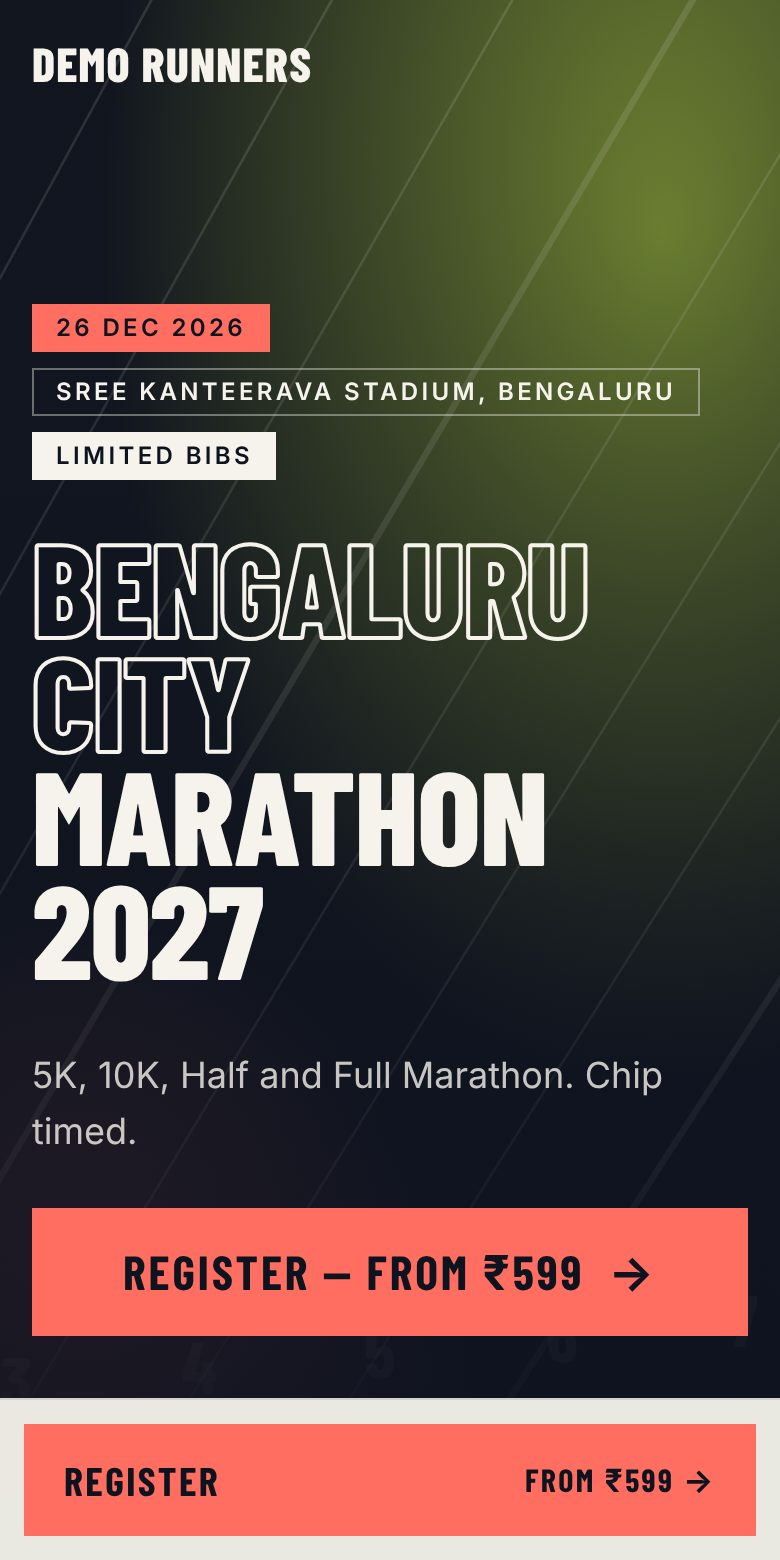
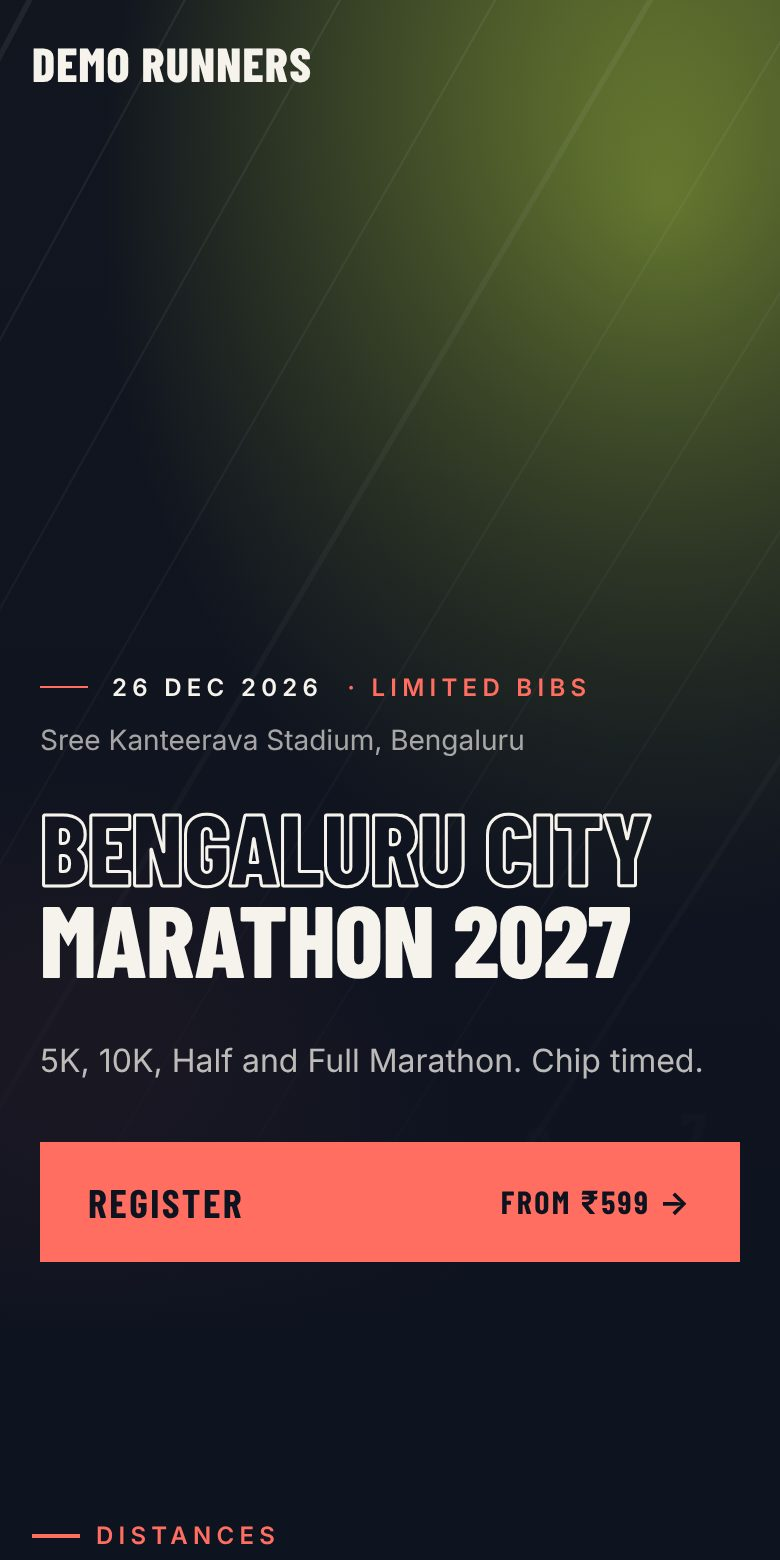
Premium mobile polish for event pages, homepage mock and dashboard preview
On phones, the Gun Lap race page showed two Register buttons at once,
three stacked boxes and an oversized headline, and the dashboard's
mobile preview was squeezed and clipped.

- Sticky register bar (all templates): a slim solid ink bar with price
  and one Register button. It slides in only after the hero's Register
  button ([data-hero-cta]) scrolls away and hides over the form; it
  stays visible without JS. Safe-area padding.
- Gun Lap on phones:
  - one quiet facts line (date · limited bibs, venue below) instead of
    stacked chips;
  - a smaller headline with tighter leading and a thinner outline;
  - a full-width hero CTA;
  - an 86svh hero;
  - tidy numeral | name | price rows for distances.
- Photo fallback line work is fainter on phones; the scrolled header is
  solid.
- Dashboard mobile preview renders a real 390x844 page, scaled to fit.
- Homepage phone mock is smaller on phones and re-captured.

Docs: docs/design/mobile-premium.md (before/after).

Claude-Session: https://claude.ai/code/session_01EcwLA5wqLFmSyCqgLYUVmw

diff --git a/resources/views/landings/templates/gun-lap.blade.php b/resources/views/landings/templates/gun-lap.blade.php
@@ -9,7 +9,7 @@
 
 @push('head')
     <style>
-        .gl-outline { -webkit-text-stroke: 2px rgb(var(--ri-paper)); color: transparent; }
+        .gl-outline { -webkit-text-stroke: 1.5px rgb(var(--ri-paper)); color: transparent; }
         @media (min-width: 640px) { .gl-outline { -webkit-text-stroke-width: 3px; } }
     </style>
 @endpush
@@ -19,26 +19,39 @@
     @php($split = max(1, (int) ceil(count($words) / 2)))
     @include('landings.partials.header', ['dark' => true])
 
-    <section id="top" class="relative isolate flex min-h-[100svh] items-end overflow-hidden">
+    <section id="top" class="relative isolate flex min-h-[86svh] items-end overflow-hidden sm:min-h-[100svh]">
         <x-ri.photo :src="$page->heroPhoto(0)" :sport="$page->config->sport->value" kenburns class="absolute inset-0 -z-20" :alt="$page->config->hero->title" position="center 30%" />
-        <div class="absolute inset-0 -z-10 bg-gradient-to-t from-ink via-ink/40 to-ink/10" aria-hidden="true"></div>
+        <div class="absolute inset-0 -z-10 bg-gradient-to-t from-ink via-ink/55 to-ink/10" aria-hidden="true"></div>
 
-        <div class="mx-auto w-full max-w-7xl px-4 pb-28 pt-32 sm:px-6 sm:pb-16 lg:px-8">
-            <div class="flex flex-wrap gap-2" data-reveal>
+        <div class="mx-auto w-full max-w-7xl px-5 pb-10 pt-28 sm:px-6 sm:pb-16 sm:pt-32 lg:px-8">
+            {{-- Phones: one quiet line of facts instead of a stack of boxes. --}}
+            <div class="sm:hidden" data-reveal data-hero-meta>
+                <p class="flex items-center gap-3 text-xs font-semibold uppercase tracking-[0.22em] text-paper">
+                    <span class="h-px w-6 bg-heat" aria-hidden="true"></span>{{ $page->date->format('j M Y') }}
+                    @if ($page->limited())
+                        <span class="text-heat">· {{ __('Limited bibs') }}</span>
+                    @endif
+                </p>
+                <p class="mt-2 text-sm text-paper/65">{{ $page->config->venue }}</p>
+            </div>
+            <div class="hidden flex-wrap gap-2 sm:flex" data-reveal>
                 <x-ri.chip tone="heat">{{ $page->date->format('j M Y') }}</x-ri.chip>
                 <x-ri.chip tone="outline-light">{{ $page->config->venue }}</x-ri.chip>
                 @if ($page->limited())
                     <x-ri.chip tone="paper">{{ __('Limited bibs') }}</x-ri.chip>
                 @endif
             </div>
-            <h1 class="ri-headline mt-6 text-[17vw] sm:text-[12vw] lg:text-[10.5rem]" data-reveal>
+            <h1 class="ri-headline mt-5 text-[13vw] leading-[0.92] sm:mt-6 sm:text-[12vw] sm:leading-[0.9] lg:text-[10.5rem]" data-reveal>
                 <span class="gl-outline block">{{ implode(' ', array_slice($words, 0, $split)) }}</span>
                 <span class="block">{{ implode(' ', array_slice($words, $split)) ?: $page->config->hero->title }}</span>
             </h1>
-            <div class="mt-8 flex flex-col gap-6 sm:flex-row sm:items-end sm:justify-between" data-reveal>
-                <p class="max-w-xl text-lg text-paper/80">{{ $page->config->hero->subtitle ?? $page->config->hero->title }}</p>
+            <div class="mt-6 flex flex-col gap-7 sm:mt-8 sm:flex-row sm:items-end sm:justify-between" data-reveal>
+                <p class="max-w-xl text-base leading-relaxed text-paper/75 sm:text-lg">{{ $page->config->hero->subtitle ?? $page->config->hero->title }}</p>
                 @if ($page->open)
-                    <a href="{{ $page->registerUrl() }}" class="inline-flex items-center justify-center gap-3 bg-heat px-9 py-4 font-display text-2xl font-bold uppercase tracking-[0.06em] text-on-heat hover:brightness-95">{{ $page->registerLabel() }} <span aria-hidden="true">→</span></a>
+                    <a href="{{ $page->registerUrl() }}" data-hero-cta class="inline-flex w-full items-center justify-between gap-3 bg-heat px-6 py-4 font-display text-xl font-bold uppercase tracking-[0.06em] text-on-heat hover:brightness-95 sm:w-auto sm:justify-center sm:px-9 sm:text-2xl">
+                        <span>{{ __('Register') }}</span>
+                        <span class="text-base sm:text-2xl"><span class="sm:hidden">{{ __('from :price', ['price' => $page->fromPrice()]) }}</span><span class="hidden sm:inline">— {{ __('from :price', ['price' => $page->fromPrice()]) }}</span> <span aria-hidden="true">→</span></span>
+                    </a>
                 @else
                     <p class="font-display text-2xl font-bold uppercase text-paper/60">{{ $page->closedLabel() }}</p>
                 @endif
@@ -53,12 +66,13 @@
             <h2 class="ri-headline mt-4 text-6xl sm:text-7xl">{{ __('Choose your race.') }}</h2>
             <ul class="mt-10 border-t border-paper/15">
                 @foreach ($page->distances as $row)
-                    <li data-reveal @class(['grid grid-cols-[auto_1fr] items-center gap-x-6 gap-y-2 border-b border-paper/15 py-6 sm:grid-cols-[10rem_1fr_auto_auto] sm:gap-8', 'opacity-50' => $row['full']])>
-                        <span class="row-span-2 font-display text-6xl font-extrabold leading-none text-heat sm:row-span-1 sm:text-7xl">{{ \App\View\LandingPage::numeral($row['distance']) }}</span>
-                        <span class="font-display text-2xl font-bold uppercase">{{ \App\View\LandingPage::title($row['distance']) }}</span>
-                        <span class="text-sm text-paper/60 sm:text-right">{{ $row['full'] ? '' : $page->placesLabel($row['left']) }}</span>
-                        <span class="flex items-center gap-4 sm:justify-end">
-                            <span class="font-display text-3xl font-extrabold">{{ $row['full'] ? __('Full') : $row['price'] }}</span>
+                    {{-- Phones: numeral | name + places | price, one tidy row per distance. --}}
+                    <li data-reveal @class(['grid grid-cols-[4.75rem_1fr_auto] items-center gap-x-4 gap-y-1 border-b border-paper/15 py-5 sm:grid-cols-[10rem_1fr_auto_auto] sm:gap-8 sm:py-6', 'opacity-50' => $row['full']])>
+                        <span class="col-start-1 row-span-2 font-display text-4xl font-extrabold leading-none text-heat sm:row-span-1 sm:text-7xl">{{ \App\View\LandingPage::numeral($row['distance']) }}</span>
+                        <span class="col-start-2 font-display text-xl font-bold uppercase leading-tight sm:col-start-auto sm:text-2xl">{{ \App\View\LandingPage::title($row['distance']) }}</span>
+                        <span class="col-start-2 text-sm text-paper/60 sm:col-start-auto sm:text-right">{{ $row['full'] ? '' : $page->placesLabel($row['left']) }}</span>
+                        <span class="col-start-3 row-span-2 row-start-1 flex items-center gap-4 sm:col-start-auto sm:row-span-1 sm:row-start-auto sm:justify-end">
+                            <span class="font-display text-2xl font-extrabold sm:text-3xl">{{ $row['full'] ? __('Full') : $row['price'] }}</span>
                             @unless ($row['full'] || ! $page->open)
                                 <a href="{{ $page->registerUrl() }}" class="hidden bg-paper px-4 py-2 font-display text-lg font-bold uppercase text-ink hover:bg-heat hover:text-on-heat sm:inline-flex">{{ __('Enter') }}</a>
                             @endunless

diff --git a/resources/views/events/overview.blade.php b/resources/views/events/overview.blade.php
@@ -56,7 +56,11 @@
             base: @js($previewUrl),
             scale: 1,
             get src() { return this.template && this.template !== this.saved ? this.base + '?template=' + encodeURIComponent(this.template) : this.base },
-            fit() { const w = this.$refs.stage?.clientWidth || 1280; this.scale = Math.min(1, w / 1280) },
+            phoneScale: 1,
+            fit() {
+                const w = this.$refs.stage?.clientWidth || 1280; this.scale = Math.min(1, w / 1280);
+                const p = this.$refs.phone?.clientWidth || 406; this.phoneScale = Math.min(1, (p - 20) / 390);
+            },
          }"
          x-init="fit(); window.addEventListener('resize', () => fit())">
 
@@ -86,7 +90,7 @@
                     </div>
                     <div class="inline-flex rounded-xl bg-slate-100 p-1 text-sm font-medium" role="group" aria-label="{{ __('Preview size') }}">
                         <button type="button" class="rounded-lg px-3 py-1.5" :class="device === 'desktop' ? 'bg-white shadow-sm text-slate-900' : 'text-slate-500'" @click="device = 'desktop'; $nextTick(() => fit())" :aria-pressed="device === 'desktop'" data-device="desktop">{{ __('Desktop') }}</button>
-                        <button type="button" class="rounded-lg px-3 py-1.5" :class="device === 'mobile' ? 'bg-white shadow-sm text-slate-900' : 'text-slate-500'" @click="device = 'mobile'" :aria-pressed="device === 'mobile'" data-device="mobile">{{ __('Mobile') }}</button>
+                        <button type="button" class="rounded-lg px-3 py-1.5" :class="device === 'mobile' ? 'bg-white shadow-sm text-slate-900' : 'text-slate-500'" @click="device = 'mobile'; $nextTick(() => fit())" :aria-pressed="device === 'mobile'" data-device="mobile">{{ __('Mobile') }}</button>
                     </div>
                 </div>
 
@@ -97,8 +101,14 @@
                                 class="absolute left-0 top-0 origin-top-left border-0" style="width: 1280px; height: 760px" :style="`width: 1280px; height: 760px; transform: scale(${scale})`"></iframe>
                     </div>
                     {{-- Mobile: real 390px width in a phone frame. --}}
-                    <div x-show="device === 'mobile'" x-cloak class="mx-auto w-[406px] max-w-full rounded-[2.5rem] bg-[#0b1020] p-2">
-                        <iframe x-bind:src="device === 'mobile' ? src : ''" title="{{ __('Mobile preview of :event', ['event' => $event->name]) }}" class="block h-[760px] w-full rounded-[2rem] border-0 bg-white"></iframe>
+                    {{-- Mobile: a real 390 x 844 phone viewport, scaled down to fit narrow screens. --}}
+                    <div x-show="device === 'mobile'" x-cloak x-ref="phone" class="mx-auto w-[410px] max-w-full" data-phone-frame>
+                        <div class="mx-auto rounded-[2.6rem] bg-[#0b1020] p-2.5 shadow-xl" :style="`width: ${Math.round(390 * phoneScale) + 20}px`">
+                            <div class="relative overflow-hidden rounded-[2.1rem] bg-white" :style="`height: ${Math.round(844 * phoneScale)}px`">
+                                <iframe x-bind:src="device === 'mobile' ? src : ''" title="{{ __('Mobile preview of :event', ['event' => $event->name]) }}"
+                                        class="absolute left-0 top-0 origin-top-left border-0" :style="`width: 390px; height: 844px; transform: scale(${phoneScale})`"></iframe>
+                            </div>
+                        </div>
                     </div>
                 </div>
             </section>

diff --git a/resources/views/landings/partials/sticky-register.blade.php b/resources/views/landings/partials/sticky-register.blade.php
@@ -1,9 +1,37 @@
-{{-- Mobile: Register is always one thumb away. Hidden on wide screens (each template has its own). --}}
+{{--
+    Mobile register bar (every template). A slim dark bar, price on the left and one Heat button,
+    that slides in only once the hero's own Register button has scrolled away, and steps aside
+    again over the registration form, so there are never two Register buttons on screen.
+    Without JavaScript it simply stays visible.
+--}}
 @if ($page->open)
-    <div class="fixed inset-x-0 bottom-0 z-40 border-t border-ink/10 bg-paper/95 p-3 backdrop-blur sm:hidden">
-        <a href="{{ $page->registerUrl() }}" class="flex items-center justify-between gap-3 bg-heat px-5 py-3.5 font-display text-xl font-bold uppercase tracking-[0.06em] text-on-heat">
-            <span>{{ __('Register') }}</span>
-            <span class="text-base">{{ __('from :price', ['price' => $page->fromPrice()]) }} →</span>
-        </a>
+    <div data-sticky-register class="ri-sticky-register fixed inset-x-0 bottom-0 z-40 px-3 sm:hidden" style="padding-bottom: max(0.75rem, env(safe-area-inset-bottom))">
+        <div class="flex items-center gap-3 bg-ink py-2 pe-2 ps-4 text-paper shadow-[0_-10px_40px_-12px_rgb(0_0_0/0.55)] ring-1 ring-paper/10">
+            <div class="min-w-0 flex-1 leading-tight">
+                <p class="truncate text-[0.7rem] font-semibold uppercase tracking-[0.18em] text-paper/55">{{ $page->date->format('j M') }} · {{ __('Entries from') }}</p>
+                <p class="font-display text-2xl font-bold">{{ $page->fromPrice() }}</p>
+            </div>
+            <a href="{{ $page->registerUrl() }}" class="inline-flex items-center gap-2 bg-heat px-5 py-3 font-display text-lg font-bold uppercase tracking-[0.06em] text-on-heat">{{ __('Register') }} <span aria-hidden="true">→</span></a>
+        </div>
     </div>
+    <style>
+        .js .ri-sticky-register { transition: transform .35s cubic-bezier(.2, .8, .2, 1), opacity .25s; }
+        .js .ri-sticky-register:not(.is-on) { transform: translateY(115%); opacity: 0; pointer-events: none; }
+    </style>
+    <script>
+        (() => {
+            const bar = document.querySelector('[data-sticky-register]');
+            if (!bar || !('IntersectionObserver' in window)) { bar?.classList.add('is-on'); return; }
+            const watched = [...document.querySelectorAll('[data-hero-cta], #register')];
+            const visible = new Set();
+            const update = () => bar.classList.toggle('is-on', visible.size === 0 && window.scrollY > window.innerHeight * 0.35);
+            const io = new IntersectionObserver((entries) => {
+                entries.forEach((e) => e.isIntersecting ? visible.add(e.target) : visible.delete(e.target));
+                update();
+            });
+            watched.forEach((el) => io.observe(el));
+            window.addEventListener('scroll', update, { passive: true });
+            update();
+        })();
+    </script>
 @endif

diff --git a/tests/Feature/Events/MobileLandingTest.php b/tests/Feature/Events/MobileLandingTest.php
@@ -1,0 +1,24 @@
+<?php
+
+/*
+ * Mobile polish for the Race Ink event pages: one Register button on screen at a time.
+ * The sticky mobile bar waits for the hero's own button ([data-hero-cta]) to scroll away.
+ */
+
+dataset('landing templates', ['gun-lap', 'stadium-split', 'equipment-close', 'night-circuit', 'heritage-crest']);
+
+it('marks the hero Register button and ships the sticky bar that waits for it', function (string $template) {
+    $html = $this->get(route('templates.show', $template))->assertOk()->getContent();
+
+    expect(preg_match_all('/<a [^>]*data-hero-cta/', $html))->toBe(1)
+        ->and($html)->toContain('data-sticky-register')
+        ->toContain("querySelectorAll('[data-hero-cta], #register')")
+        ->toContain('.js .ri-sticky-register:not(.is-on)');
+})->with('landing templates');
+
+it('gives Gun Lap one quiet line of facts on phones instead of stacked boxes', function () {
+    $this->get(route('templates.show', 'gun-lap'))->assertOk()
+        ->assertSee('data-hero-meta', false)
+        ->assertSee('Entries from')
+        ->assertSeeInOrder(['data-hero-meta', 'Limited bibs', 'hidden flex-wrap gap-2 sm:flex'], false);
+});

diff --git a/resources/views/landings/templates/night-circuit.blade.php b/resources/views/landings/templates/night-circuit.blade.php
@@ -24,7 +24,7 @@
                 <p class="mt-6 max-w-lg text-lg text-paper/75" data-reveal>{{ $page->config->hero->subtitle ?? $page->config->hero->title }}</p>
                 <p class="mt-3 text-sm text-paper/55" data-reveal>{{ $page->config->venue }}</p>
                 @if ($page->open)
-                    <a href="{{ $page->registerUrl() }}" data-reveal class="mt-10 inline-flex items-center gap-3 bg-volt px-9 py-4 font-display text-2xl font-bold uppercase tracking-[0.06em] text-midnight shadow-[0_0_40px_rgb(var(--ri-volt)/0.35)] hover:brightness-105">{{ $page->registerLabel() }} <span aria-hidden="true">→</span></a>
+                    <a href="{{ $page->registerUrl() }}" data-hero-cta data-reveal class="mt-10 inline-flex items-center gap-3 bg-volt px-9 py-4 font-display text-2xl font-bold uppercase tracking-[0.06em] text-midnight shadow-[0_0_40px_rgb(var(--ri-volt)/0.35)] hover:brightness-105">{{ $page->registerLabel() }} <span aria-hidden="true">→</span></a>
                 @else
                     <p class="mt-10 font-display text-2xl font-bold uppercase text-paper/50">{{ $page->closedLabel() }}</p>
                 @endif

diff --git a/resources/views/landings/templates/equipment-close.blade.php b/resources/views/landings/templates/equipment-close.blade.php
@@ -24,7 +24,7 @@
                 <p class="mt-6 max-w-lg text-lg text-ink/70" data-reveal>{{ $page->config->hero->subtitle ?? $page->config->hero->title }}</p>
                 <div class="mt-10 flex flex-col gap-4 sm:flex-row sm:items-center" data-reveal>
                     @if ($page->open)
-                        <a href="{{ $page->registerUrl() }}" class="inline-flex items-center justify-center gap-3 bg-heat px-8 py-4 font-display text-2xl font-bold uppercase tracking-[0.06em] text-on-heat hover:brightness-95">{{ __('Grab your bib') }} <span aria-hidden="true">→</span></a>
+                        <a href="{{ $page->registerUrl() }}" data-hero-cta class="inline-flex items-center justify-center gap-3 bg-heat px-8 py-4 font-display text-2xl font-bold uppercase tracking-[0.06em] text-on-heat hover:brightness-95">{{ __('Grab your bib') }} <span aria-hidden="true">→</span></a>
                     @endif
                     <p class="text-sm text-ink/60">{{ __('From :price · :date', ['price' => $page->fromPrice(), 'date' => $page->date->format('j M Y')]) }}</p>
                 </div>

diff --git a/resources/views/landings/templates/stadium-split.blade.php b/resources/views/landings/templates/stadium-split.blade.php
@@ -26,7 +26,7 @@
                         <x-ri.chip tone="paper">{{ $page->config->venue }}</x-ri.chip>
                     </div>
                     @if ($page->open)
-                        <a href="{{ $page->registerUrl() }}" class="mt-6 inline-flex w-full items-center justify-between gap-4 bg-heat px-7 py-4 font-display text-2xl font-bold uppercase tracking-[0.06em] text-on-heat hover:brightness-95 sm:w-auto">{{ __('Register') }} <span class="text-lg">{{ __('from :price', ['price' => $page->fromPrice()]) }} →</span></a>
+                        <a href="{{ $page->registerUrl() }}" data-hero-cta class="mt-6 inline-flex w-full items-center justify-between gap-4 bg-heat px-7 py-4 font-display text-2xl font-bold uppercase tracking-[0.06em] text-on-heat hover:brightness-95 sm:w-auto">{{ __('Register') }} <span class="text-lg">{{ __('from :price', ['price' => $page->fromPrice()]) }} →</span></a>
                     @else
                         <p class="mt-6 font-display text-2xl font-bold uppercase opacity-70">{{ $page->closedLabel() }}</p>
                     @endif

diff --git a/resources/views/landings/templates/heritage-crest.blade.php b/resources/views/landings/templates/heritage-crest.blade.php
@@ -22,7 +22,7 @@
             <p class="mt-8 font-display text-2xl font-bold uppercase tracking-[0.18em]" data-reveal>{{ $page->date->format('l, j F Y') }}</p>
             <p class="mt-2 text-ink/65" data-reveal>{{ $page->config->venue }}</p>
             @if ($page->open)
-                <a href="{{ $page->registerUrl() }}" data-reveal class="mt-10 inline-flex items-center gap-3 bg-heat px-10 py-4 font-display text-2xl font-bold uppercase tracking-[0.12em] text-on-heat hover:brightness-95">{{ __('Enter the meet') }}</a>
+                <a href="{{ $page->registerUrl() }}" data-hero-cta data-reveal class="mt-10 inline-flex items-center gap-3 bg-heat px-10 py-4 font-display text-2xl font-bold uppercase tracking-[0.12em] text-on-heat hover:brightness-95">{{ __('Enter the meet') }}</a>
             @else
                 <p class="mt-10 font-display text-2xl font-bold uppercase tracking-[0.12em] text-ink/55">{{ $page->closedLabel() }}</p>
             @endif

diff --git a/resources/views/landings/partials/header.blade.php b/resources/views/landings/partials/header.blade.php
@@ -5,7 +5,7 @@
 @php($dark = $dark ?? true)
 <header x-data="{ solid: false }" x-init="solid = window.scrollY > 40" @scroll.window="solid = window.scrollY > 40"
         @class(['fixed inset-x-0 z-30 transition-colors duration-300', isset($useTemplateUrl) ? 'top-14' : ($page->preview ? 'top-7' : 'top-0')])
-        :class="solid ? '{{ $dark ? 'bg-ink/90 text-paper' : 'bg-paper/95 text-ink shadow-sm' }} backdrop-blur' : '{{ $dark ? 'text-paper' : 'text-ink' }}'">
+        :class="solid ? '{{ $dark ? 'bg-ink/95 text-paper shadow-[0_1px_0_rgb(255_255_255/0.06)]' : 'bg-paper/95 text-ink shadow-sm' }} backdrop-blur-md' : '{{ $dark ? 'text-paper' : 'text-ink' }}'">
     <div class="mx-auto flex h-16 max-w-7xl items-center justify-between gap-4 px-4 sm:h-20 sm:px-6 lg:px-8">
         <a href="#top" class="flex items-center">
             @if ($page->logoUrl())

diff --git a/resources/views/components/ri/partials/fallback.blade.php b/resources/views/components/ri/partials/fallback.blade.php
@@ -1,7 +1,7 @@
 {{-- Graphic stand-in when no photo exists: midnight field, Track/Heat glow, sport line work. --}}
 <div class="absolute inset-0" aria-hidden="true"
      style="background: radial-gradient(120% 90% at 85% 15%, rgb(var(--ri-track) / .55), transparent 60%), radial-gradient(90% 70% at 10% 100%, rgb(var(--ri-heat) / .45), transparent 60%), rgb(var(--ri-midnight));">
-    <svg class="absolute inset-0 h-full w-full text-paper/15" viewBox="0 0 800 600" preserveAspectRatio="xMidYMid slice" fill="none" stroke="currentColor">
+    <svg class="absolute inset-0 h-full w-full text-paper/[0.08] sm:text-paper/15" viewBox="0 0 800 600" preserveAspectRatio="xMidYMid slice" fill="none" stroke="currentColor">
         @switch($sport)
             @case('cycling')
                 @foreach (range(0, 9) as $i)

diff --git a/resources/views/marketing/home.blade.php b/resources/views/marketing/home.blade.php
@@ -40,7 +40,7 @@
             </div>
 
             {{-- One device: a Race Ink landing on a phone. --}}
-            <div class="relative mx-auto w-full max-w-[18rem] lg:max-w-[19rem]" data-reveal data-device-mock>
+            <div class="relative mx-auto w-full max-w-[15.5rem] sm:max-w-[18rem] lg:max-w-[19rem]" data-reveal data-device-mock>
                 <div class="relative rounded-[2.75rem] bg-ink p-2.5 shadow-[0_40px_80px_-30px_rgb(var(--ri-ink)/0.6)]">
                     <div class="overflow-hidden rounded-[2.25rem] bg-midnight">
                         <img src="{{ asset('images/templates/mobile/gun-lap.jpg') }}" width="390" height="780" alt="{{ __('A race page made with the Gun Lap template, on a phone') }}" class="block h-auto w-full" fetchpriority="high">

diff --git a/docs/design/mobile-premium.md b/docs/design/mobile-premium.md
@@ -1,0 +1,33 @@
+# Premium mobile polish for event pages
+
+Feedback: on a phone, the race page (in the homepage phone mock and in the dashboard preview)
+didn't feel premium. The causes and the fixes:
+
+| Problem on a phone | Fix |
+|---|---|
+| Two Register buttons on screen at once (the hero button plus the sticky bar) | The sticky bar (`landings/partials/sticky-register`, every template) slides in only once the hero button (`[data-hero-cta]`) has scrolled away, and steps aside over the registration form. Without JavaScript it stays visible. |
+| The sticky bar was a coral block on a light strip | A slim solid ink bar: "26 Dec · Entries from ₹599" on the left, one Heat **Register →** button, and safe-area padding for notched phones. |
+| Gun Lap hero: three boxed chips stacked on separate lines | One quiet line on phones: date · Limited bibs, with the venue below. The chips stay on tablet and desktop. |
+| Oversized outline headline | A smaller headline (13vw), tighter leading and a thinner outline stroke on phones. |
+| Hero filled the screen with empty fallback | The hero is 86% of the screen height on phones, so the next section peeks in. The fallback line work is fainter on phones. |
+| Distances: the price dropped under a huge numeral | One tidy row per distance: numeral, then name and places left, then the price on the right. |
+| Dashboard mobile preview squeezed and clipped on a phone | The preview renders a real 390×844 page and scales it to fit, inside a phone frame. |
+| The homepage phone mock was very large on phones | It is smaller on phones and re-captured from the new design. |
+
+## Before → after (Gun Lap, 390px)
+
+| Before | After |
+|---|---|
+| ![Before](mobile-premium/before-gun-lap.jpg) | ![After](mobile-premium/after-gun-lap.jpg) |
+
+After scrolling, the slim bar appears. The distance rows are tidy:
+
+![Scrolled](mobile-premium/after-gun-lap-scrolled.jpg)
+
+Homepage phone mock, and the dashboard's mobile preview on a phone:
+
+| Homepage | Dashboard preview |
+|---|---|
+| ![Home](mobile-premium/after-home-phone.jpg) | ![Overview](mobile-premium/after-overview-phone.jpg) |
+
+Tests: `tests/Feature/Events/MobileLandingTest.php`.
